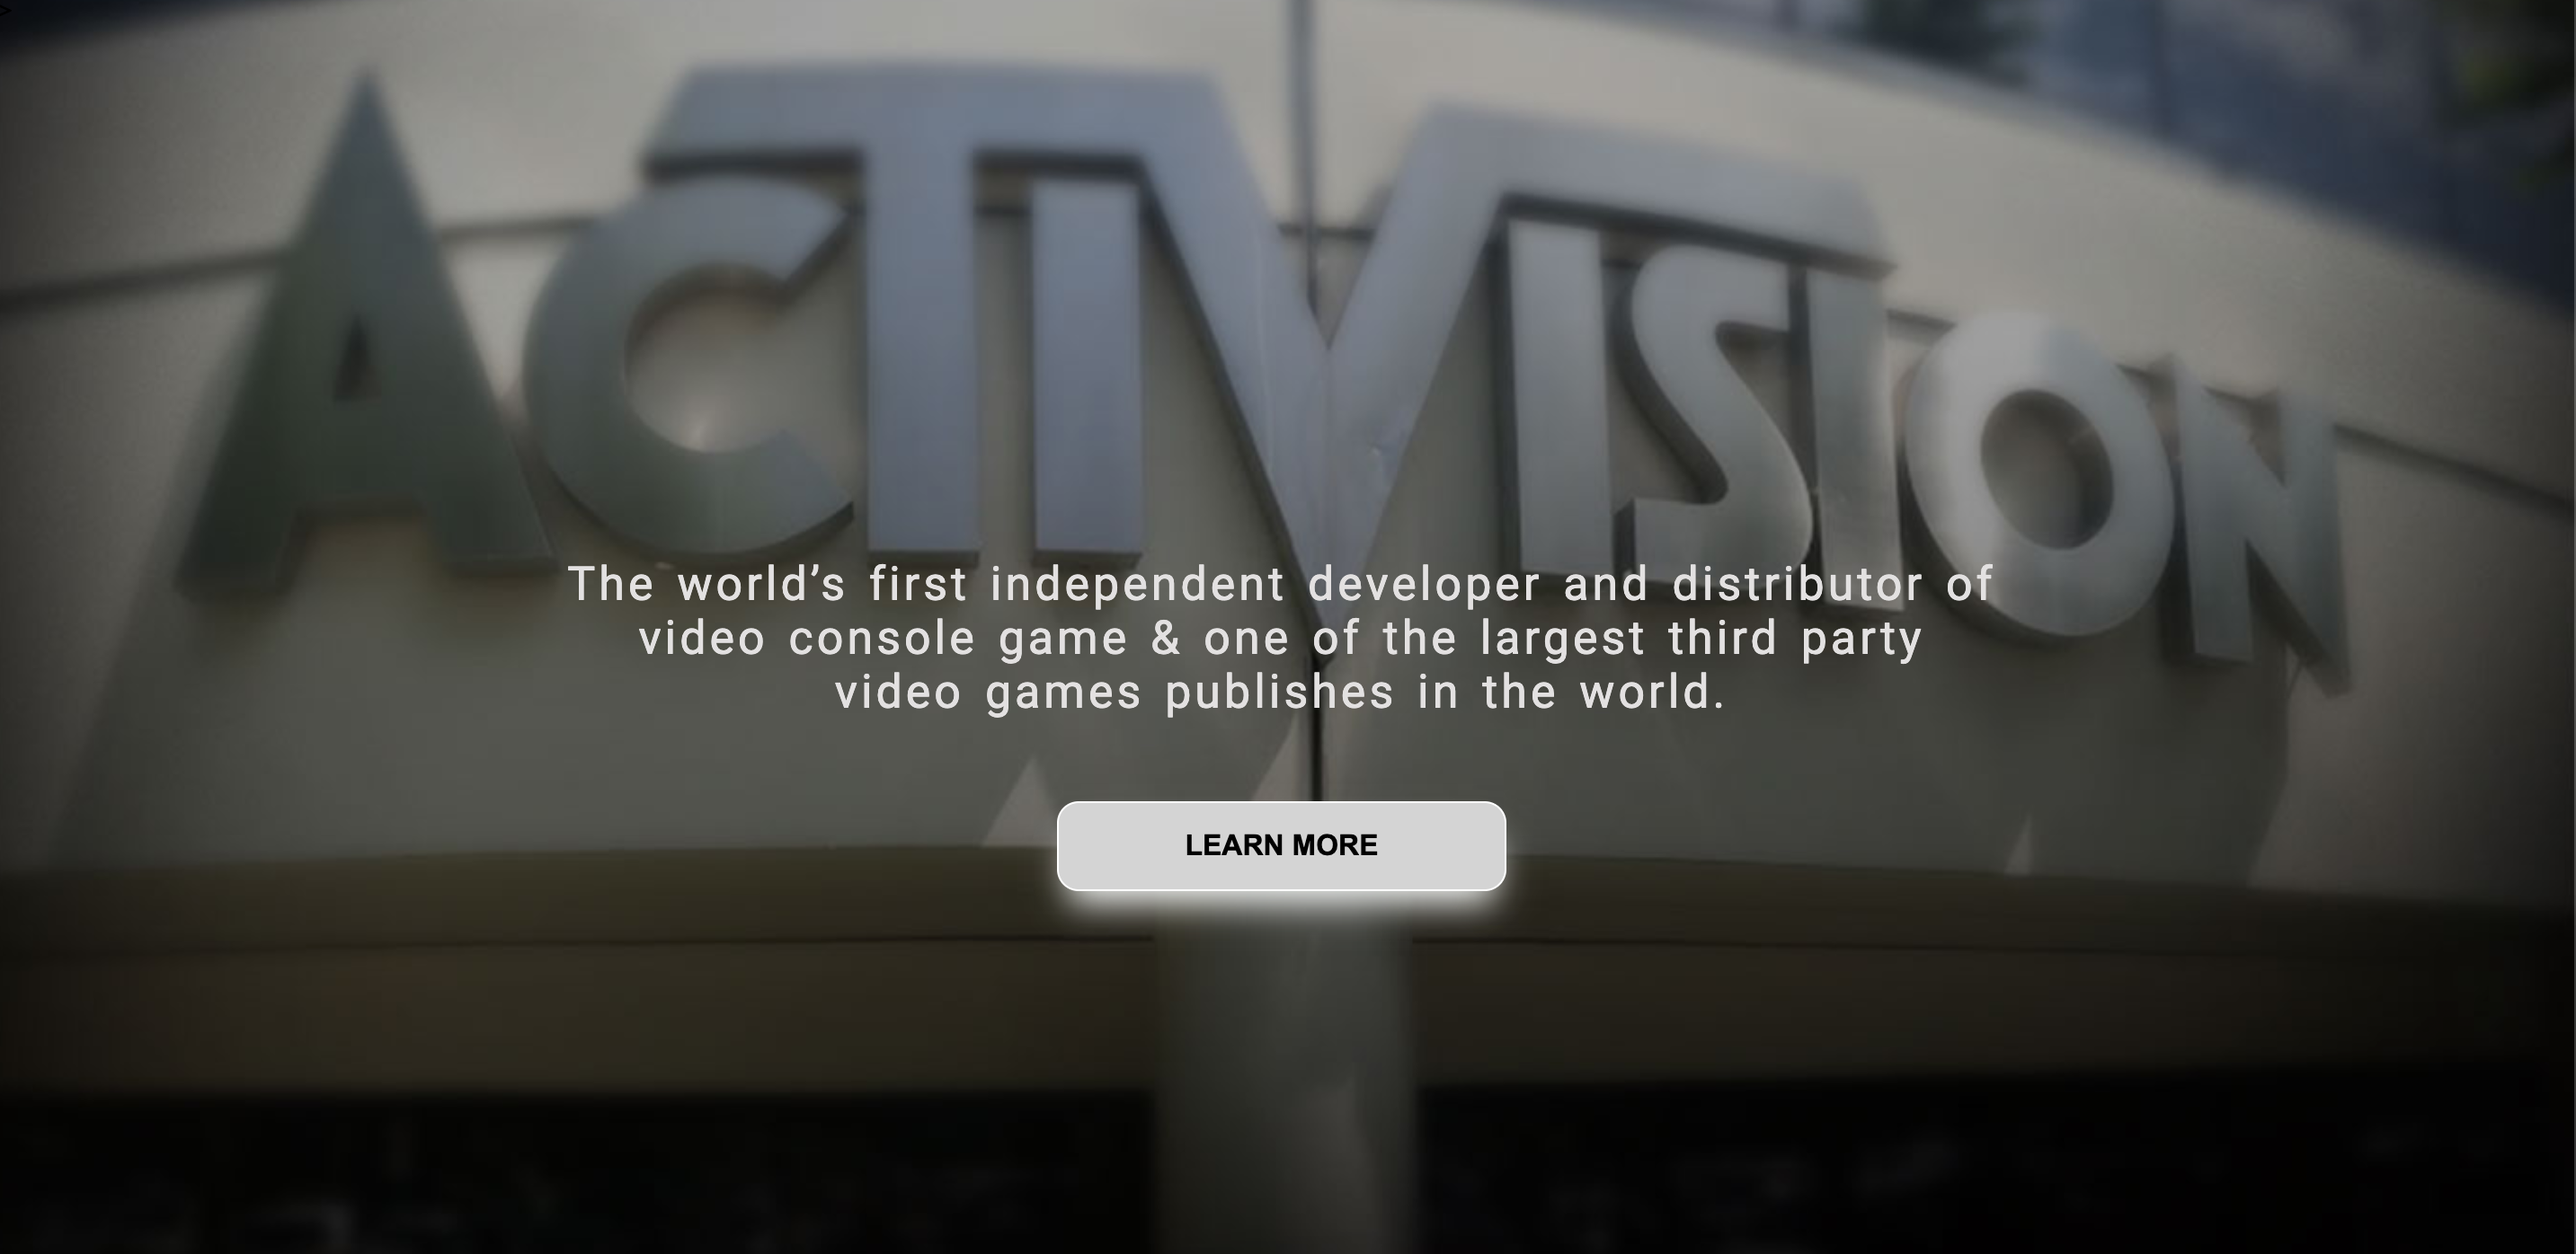
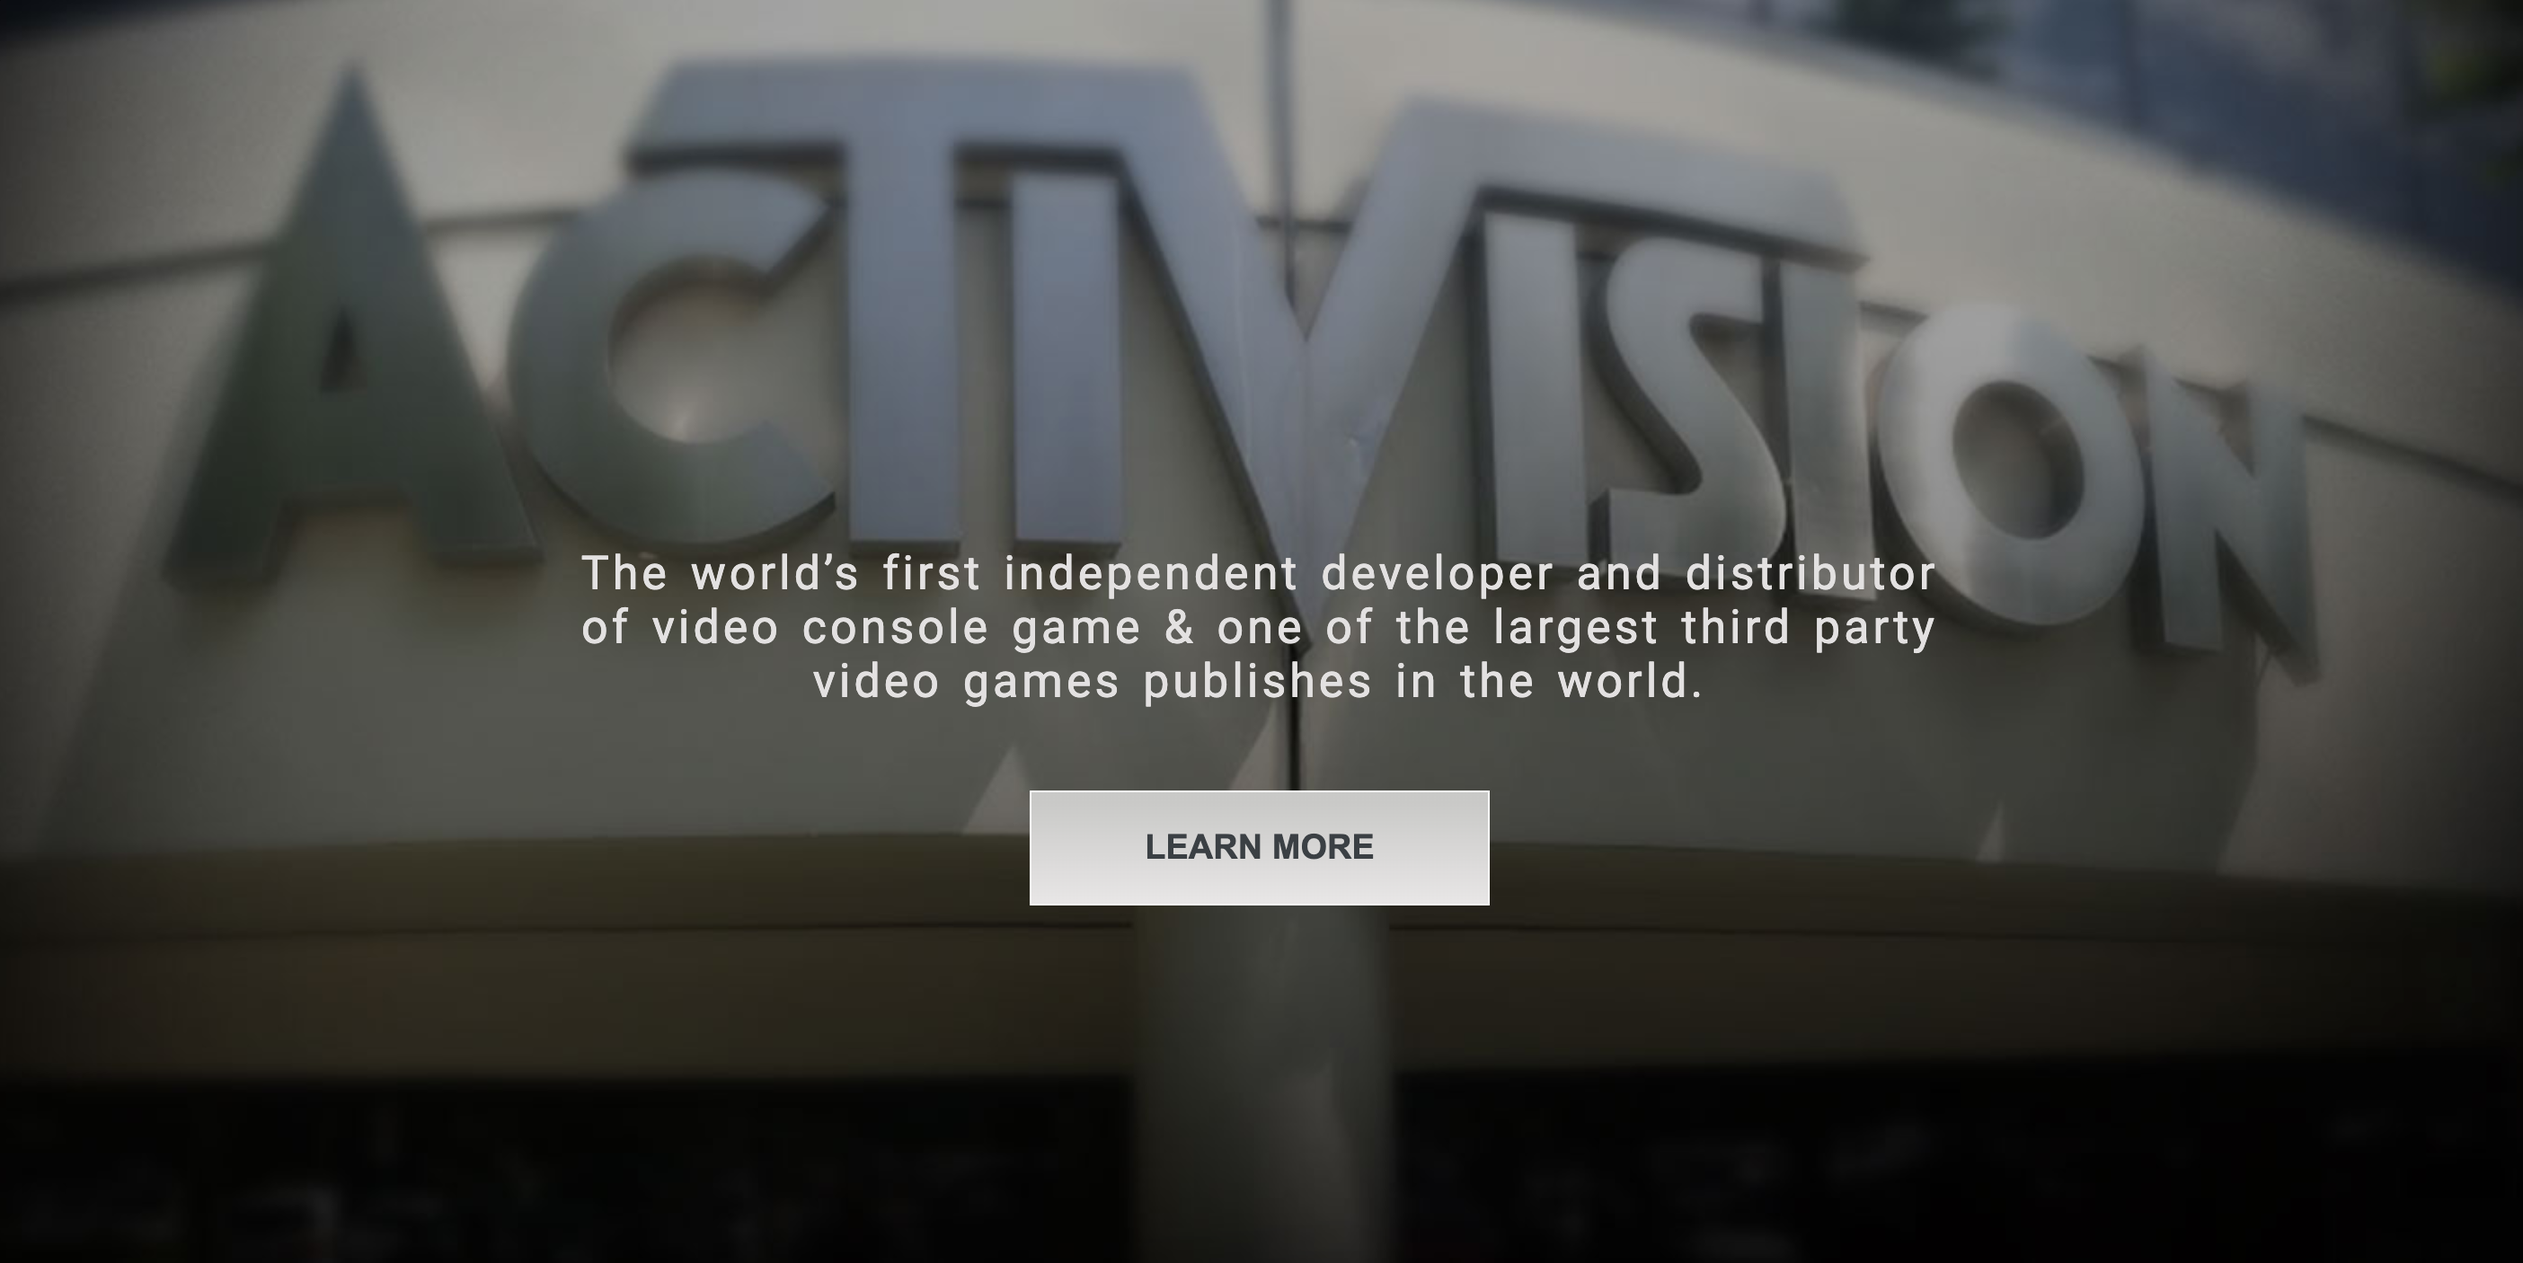
changed button

diff --git a/css/styles.css b/css/styles.css
@@ -1,88 +1,86 @@
 * {
-    box-sizing: border-box;
+  box-sizing: border-box;
 }
 
 body {
-  padding: 0;
-  margin: 0;
-  background: url("../assets/hero_img_01.jpg") no-repeat center center fixed;
-  background-size: cover;
+padding: 0;
+margin: 0;
+background: url("../assets/hero_img_01.jpg") no-repeat center center fixed;
+background-size: cover;
 }
 
 .container {
-    position: relative;
-    text-align: center;
-    color: white;
-  }
+  position: relative;
+  text-align: center;
+  color: white;
+}
 
-  .hero__centered {
-    margin: 0 auto;
-    margin-top: 250px;
-    width: 58%;
-    padding: 20px;
-    font-family: 'Roboto', sans-serif;
-  }
+.hero__centered {
+  margin: 0 auto;
+  margin-top: 250px;
+  width: 58%;
+  padding: 20px;
+  font-family: 'Roboto', sans-serif;
+}
 
-  .btn {
-    font-size: 16px;
-    padding: 15px 70px;
-    text-transform: uppercase;
-    cursor: pointer;
-    border: 1px solid white;
-    outline:none;
-    background-color:#D4D4D4;
-    box-shadow: rgb(245, 247, 246) 0px 13px 19px -6px;
-    border-radius:12px;
-    font-weight: bold;
-  }
+.btn {
+  font-size: 19px;
+  padding: 20px 63px;
+  text-transform: uppercase;
+  cursor: pointer;
+  border: 1px solid white;
+  outline:none;
+  font-weight: bold;
+  background-image: linear-gradient(rgb(201, 201, 199) 10%, rgb(232, 230, 230));
+  color:#3B4044;
+}
 
-  .btn:hover {
-    outline:none;
-    box-shadow: rgb(245, 247, 246) 0px -5px 19px -6px;
-    transition: all 0.5s ease 0s;
-  }
+.btn:hover {
+  outline:none;
+  transition: all 0.5s ease 0s;
+}
 
-  p {
-    color:rgb(227, 225, 225);
-    word-spacing: 3px;
-    letter-spacing: 2px;
-    font-size: 26px;
-    text-align: center;
-  }
+p {
+  color:rgb(227, 225, 225);
+  word-spacing: 3px;
+  letter-spacing: 2px;
+  font-size: 26px;
+  text-align: center;
+}
 
-  .modal {
-    display: none; 
-    position: fixed; 
-    z-index: 1; 
-    padding-top: 100px; 
-    left: 0;
-    top: 0;
-    width: 100%; 
-    height: 100%; 
-    overflow: auto; 
-    background-color: rgba(0,0,0,0.4); 
-  }
-  iframe {
-    box-shadow: rgb(209, 212, 211) 0px 5px 19px -6px;
-    border-radius: 20px;
-  }
+.modal {
+  display: none; 
+  position: fixed; 
+  z-index: 1; 
+  padding-top: 100px; 
+  left: 0;
+  top: 0;
+  width: 100%; 
+  height: 100%; 
+  overflow: auto; 
+  background-color: rgba(0,0,0,0.4); 
+}
+iframe {
+  box-shadow: rgb(209, 212, 211) 0px 5px 19px -6px;
+  border-radius: 20px;
+}
 
-  @media only screen and (max-width: 500px){
-      body {
-        padding: 0;
-        margin: 0;
-        background: url("../assets/Hero_img_mobile_01.jpg") no-repeat center center fixed;
-        background-size: cover;
-      }
-      .hero__centered {
-          width: 80%;
-      }
-      p {
-        text-align: center;
-      }
-      iframe {
-        width: 95%;
-      }
-  }
+@media only screen and (max-width: 500px){
+    body {
+      padding: 0;
+      margin: 0;
+      background: url("../assets/Hero_img_mobile_01.jpg") no-repeat center center fixed;
+      background-size: cover;
+    }
+    .hero__centered {
+        width: 80%;
+    }
+    p {
+      text-align: center;
+    }
+    iframe {
+      width: 95%;
+    }
+}
 
-  
+
